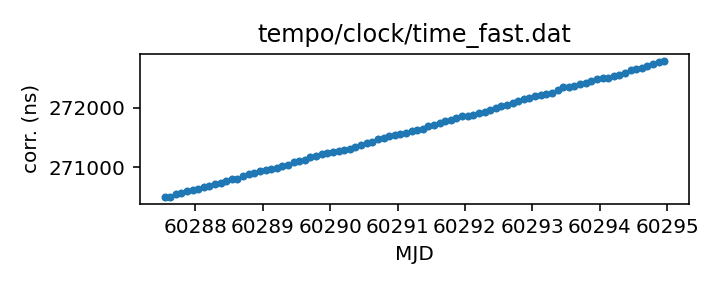
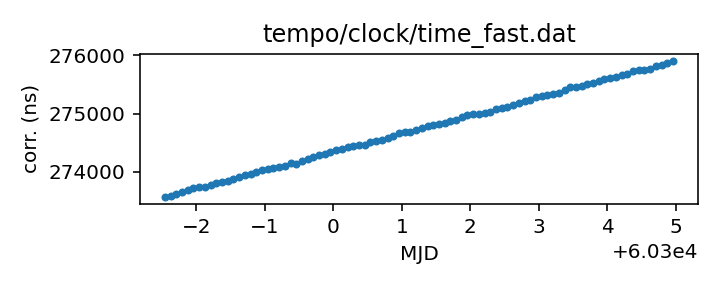
Routine gh-pages update from Github action Thu Dec 28 20:30:00 UTC 2023

diff --git a/status.md b/status.md
@@ -13,17 +13,17 @@ name of each clock file links to a page with more details.
 
 | Name | File | Corrections start | Corrections end | Last check date | Last check result 
 |:--- |:--- | --- | --- | --- |:--- 
-| [GPS to UTC](T2runtime/clock/gps2utc.clk.html) | `T2runtime/clock/gps2utc.clk` | 1993-01-01 MJD 48988.0 | 2023-11-26 MJD 60274.0 | 2023-12-27 | Unchanged 
-| [GPS to UTC (Combined Clock)](T2runtime/clock/gps2utc_cc.clk.html) | `T2runtime/clock/gps2utc_cc.clk` | 1993-01-01 MJD 48988.0 | 2023-11-26 MJD 60274.0 | 2023-12-27 | Unchanged 
-| [GPS to UTC (Corrected)](T2runtime/clock/gps2utc_c0p.clk.html) | `T2runtime/clock/gps2utc_c0p.clk` | 2010-12-29 MJD 55559.0 | 2023-11-26 MJD 60274.0 | 2023-12-27 | Unchanged 
-| [GBT](tempo/clock/time_gbt.dat.html) | `tempo/clock/time_gbt.dat` | 2000-12-31 MJD 51909.5 | 2023-03-20 MJD 60023.5 | 2023-12-27 | **Validation failed** 
+| [GPS to UTC](T2runtime/clock/gps2utc.clk.html) | `T2runtime/clock/gps2utc.clk` | 1993-01-01 MJD 48988.0 | 2023-11-26 MJD 60274.0 | 2023-12-28 | Unchanged 
+| [GPS to UTC (Combined Clock)](T2runtime/clock/gps2utc_cc.clk.html) | `T2runtime/clock/gps2utc_cc.clk` | 1993-01-01 MJD 48988.0 | 2023-11-26 MJD 60274.0 | 2023-12-28 | Unchanged 
+| [GPS to UTC (Corrected)](T2runtime/clock/gps2utc_c0p.clk.html) | `T2runtime/clock/gps2utc_c0p.clk` | 2010-12-29 MJD 55559.0 | 2023-11-26 MJD 60274.0 | 2023-12-28 | Unchanged 
+| [GBT](tempo/clock/time_gbt.dat.html) | `tempo/clock/time_gbt.dat` | 2000-12-31 MJD 51909.5 | 2023-03-20 MJD 60023.5 | 2023-12-28 | **Validation failed** 
 | [GBT (TEMPO2 converted from TEMPO)](T2runtime/clock/gbt2gps.clk.html) | `T2runtime/clock/gbt2gps.clk` | 2000-12-31 MJD 51909.5 | 2023-03-20 MJD 60023.5 | 2023-03-21 | Updated 
-| [Jodrell Bank](T2runtime/clock/jb2gps.clk.html) | `T2runtime/clock/jb2gps.clk` | 2006-10-13 MJD 54021.4 | 2023-12-04 MJD 60282.0 | 2023-12-21 | Unchanged 
-| [Jodrell Bank Roach](T2runtime/clock/jbroach2jb.clk.html) | `T2runtime/clock/jbroach2jb.clk` | 2006-10-13 MJD 54021.4 | 2018-03-20 MJD 58197.6 | 2023-12-21 | Unchanged 
-| [Jodrell Bank DFB](T2runtime/clock/jbdfb2jb.clk.html) | `T2runtime/clock/jbdfb2jb.clk` | 2006-10-13 MJD 54021.4 | 2017-05-11 MJD 57884.0 | 2023-12-21 | Unchanged 
-| [Meerkat (observatory)](T2runtime/clock/mk2utc_observatory.clk.html) | `T2runtime/clock/mk2utc_observatory.clk` | 2019-01-01 MJD 58484.0 | 2023-12-15 MJD 60294.0 | 2023-12-21 | Updated 
-| [Leap seconds](tempo/clock/leap.sec.html) | `tempo/clock/leap.sec` | 1972-07-01 MJD 41499.0 | 2017-01-01 MJD 57754.0 | 2023-12-27 | Unchanged 
-| [UT1 table](tempo/clock/ut1.dat.html) | `tempo/clock/ut1.dat` | 1973-01-02 MJD 41684.0 | 2024-12-28 MJD 60672.0 | 2023-12-27 | Unchanged 
+| [Jodrell Bank](T2runtime/clock/jb2gps.clk.html) | `T2runtime/clock/jb2gps.clk` | 2006-10-13 MJD 54021.4 | 2023-12-04 MJD 60282.0 | 2023-12-28 | Unchanged 
+| [Jodrell Bank Roach](T2runtime/clock/jbroach2jb.clk.html) | `T2runtime/clock/jbroach2jb.clk` | 2006-10-13 MJD 54021.4 | 2018-03-20 MJD 58197.6 | 2023-12-28 | Unchanged 
+| [Jodrell Bank DFB](T2runtime/clock/jbdfb2jb.clk.html) | `T2runtime/clock/jbdfb2jb.clk` | 2006-10-13 MJD 54021.4 | 2017-05-11 MJD 57884.0 | 2023-12-28 | Unchanged 
+| [Meerkat (observatory)](T2runtime/clock/mk2utc_observatory.clk.html) | `T2runtime/clock/mk2utc_observatory.clk` | 2019-01-01 MJD 58484.0 | 2023-12-15 MJD 60294.0 | 2023-12-28 | Unchanged 
+| [Leap seconds](tempo/clock/leap.sec.html) | `tempo/clock/leap.sec` | 1972-07-01 MJD 41499.0 | 2017-01-01 MJD 57754.0 | 2023-12-28 | Unchanged 
+| [UT1 table](tempo/clock/ut1.dat.html) | `tempo/clock/ut1.dat` | 1973-01-02 MJD 41684.0 | 2025-01-04 MJD 60679.0 | 2023-12-28 | Updated 
 
 
 
@@ -65,24 +65,24 @@ name of each clock file links to a page with more details.
 
 | Name | File | Corrections start | Corrections end | Last check date | Last check result 
 |:--- |:--- | --- | --- | --- |:--- 
-| [GPS to UTC (TEMPO2)](T2runtime/clock/gps2utc_tempo2.clk.html) | `T2runtime/clock/gps2utc_tempo2.clk` | 1996-03-27 MJD 50169.0 | 2022-10-27 MJD 59879.0 | 2023-12-21 | Unchanged 
-| [GBT (TEMPO2)](T2runtime/clock/gbt2gps_tempo2.clk.html) | `T2runtime/clock/gbt2gps_tempo2.clk` | 2000-12-31 MJD 51909.5 | 2020-02-25 MJD 58904.5 | 2023-12-21 | Unchanged 
-| [Jodrell Bank (TEMPO)](tempo/clock/time_jb.dat.html) | `tempo/clock/time_jb.dat` | 2006-10-13 MJD 54021.4 | 2019-05-13 MJD 58616.2 | 2023-12-21 | Unchanged 
-| [VLA](tempo/clock/time_vla.dat.html) | `tempo/clock/time_vla.dat` | 1990-10-27 MJD 48191.2 | 2021-03-07 MJD 59280.5 | 2023-12-21 | Unchanged 
-| [VLA (TEMPO2)](T2runtime/clock/vla2gps.clk.html) | `T2runtime/clock/vla2gps.clk` | 2015-02-01 MJD 57054.6 | 2021-03-07 MJD 59280.5 | 2023-12-21 | Unchanged 
-| [VLA to NIST](T2runtime/clock/vla2nist.clk.html) | `T2runtime/clock/vla2nist.clk` | 1990-10-27 MJD 48191.2 | 1993-11-13 MJD 49304.0 | 2023-12-21 | Unchanged 
-| [FAST](tempo/clock/time_fast.dat.html) | `tempo/clock/time_fast.dat` | 2017-07-27 MJD 57961.0 | 2023-12-16 MJD 60295.0 | 2023-12-21 | Updated 
-| [WSRT](T2runtime/clock/wsrt2gps.clk.html) | `T2runtime/clock/wsrt2gps.clk` | 1999-01-01 MJD 51179.5 | 2015-06-29 MJD 57202.1 | 2023-12-21 | Unchanged 
-| [WSRT (TEMPO)](tempo/clock/time_wsrt.dat.html) | `tempo/clock/time_wsrt.dat` | 1987-07-24 MJD 47000.0 | 2007-12-24 MJD 54458.0 | 2023-12-21 | **Validation failed** 
-| [Parkes](T2runtime/clock/pks2gps.clk.html) | `T2runtime/clock/pks2gps.clk` | 1858-11-17 MJD 0.0 | 2023-11-30 MJD 60278.1 | 2023-12-21 | Unchanged 
-| [Parkes (TEMPO)](tempo/clock/time_pks.dat.html) | `tempo/clock/time_pks.dat` | 1979-05-07 MJD 44000.0 | 2011-07-03 MJD 55745.8 | 2023-12-21 | **Validation failed** 
-| [SRT](T2runtime/clock/srt2gps.clk.html) | `T2runtime/clock/srt2gps.clk` | 2013-03-20 MJD 56371.0 | 2019-12-11 MJD 58828.0 | 2023-12-21 | Unchanged 
-| [Effelsberg](T2runtime/clock/eff2gps.clk.html) | `T2runtime/clock/eff2gps.clk` | 1993-11-29 MJD 49320.0 | 2015-06-22 MJD 57195.5 | 2023-12-21 | Unchanged 
-| [Effelsberg Asterix/PSRix](T2runtime/clock/effix2gps.clk.html) | `T2runtime/clock/effix2gps.clk` | 2011-01-01 MJD 55562.5 | 2021-03-21 MJD 59294.5 | 2023-12-21 | Unchanged 
-| [LEAP](T2runtime/clock/leap2effix.clk.html) | `T2runtime/clock/leap2effix.clk` | 2012-10-29 MJD 56230.0 | 2014-03-04 MJD 56720.0 | 2023-12-21 | Unchanged 
-| [NUPPI](tempo/clock/time_nuppi.dat.html) | `tempo/clock/time_nuppi.dat` | 2005-03-07 MJD 53436.0 | 2015-11-08 MJD 57334.6 | 2023-12-21 | Unchanged 
+| [GPS to UTC (TEMPO2)](T2runtime/clock/gps2utc_tempo2.clk.html) | `T2runtime/clock/gps2utc_tempo2.clk` | 1996-03-27 MJD 50169.0 | 2022-10-27 MJD 59879.0 | 2023-12-28 | Unchanged 
+| [GBT (TEMPO2)](T2runtime/clock/gbt2gps_tempo2.clk.html) | `T2runtime/clock/gbt2gps_tempo2.clk` | 2000-12-31 MJD 51909.5 | 2020-02-25 MJD 58904.5 | 2023-12-28 | Unchanged 
+| [Jodrell Bank (TEMPO)](tempo/clock/time_jb.dat.html) | `tempo/clock/time_jb.dat` | 2006-10-13 MJD 54021.4 | 2019-05-13 MJD 58616.2 | 2023-12-28 | Unchanged 
+| [VLA](tempo/clock/time_vla.dat.html) | `tempo/clock/time_vla.dat` | 1990-10-27 MJD 48191.2 | 2021-03-07 MJD 59280.5 | 2023-12-28 | Unchanged 
+| [VLA (TEMPO2)](T2runtime/clock/vla2gps.clk.html) | `T2runtime/clock/vla2gps.clk` | 2015-02-01 MJD 57054.6 | 2021-03-07 MJD 59280.5 | 2023-12-28 | Unchanged 
+| [VLA to NIST](T2runtime/clock/vla2nist.clk.html) | `T2runtime/clock/vla2nist.clk` | 1990-10-27 MJD 48191.2 | 1993-11-13 MJD 49304.0 | 2023-12-28 | Unchanged 
+| [FAST](tempo/clock/time_fast.dat.html) | `tempo/clock/time_fast.dat` | 2017-07-27 MJD 57961.0 | 2023-12-26 MJD 60305.0 | 2023-12-28 | Updated 
+| [WSRT](T2runtime/clock/wsrt2gps.clk.html) | `T2runtime/clock/wsrt2gps.clk` | 1999-01-01 MJD 51179.5 | 2015-06-29 MJD 57202.1 | 2023-12-28 | Unchanged 
+| [WSRT (TEMPO)](tempo/clock/time_wsrt.dat.html) | `tempo/clock/time_wsrt.dat` | 1987-07-24 MJD 47000.0 | 2007-12-24 MJD 54458.0 | 2023-12-28 | **Validation failed** 
+| [Parkes](T2runtime/clock/pks2gps.clk.html) | `T2runtime/clock/pks2gps.clk` | 1858-11-17 MJD 0.0 | 2023-11-30 MJD 60278.1 | 2023-12-28 | Unchanged 
+| [Parkes (TEMPO)](tempo/clock/time_pks.dat.html) | `tempo/clock/time_pks.dat` | 1979-05-07 MJD 44000.0 | 2011-07-03 MJD 55745.8 | 2023-12-28 | **Validation failed** 
+| [SRT](T2runtime/clock/srt2gps.clk.html) | `T2runtime/clock/srt2gps.clk` | 2013-03-20 MJD 56371.0 | 2019-12-11 MJD 58828.0 | 2023-12-28 | Unchanged 
+| [Effelsberg](T2runtime/clock/eff2gps.clk.html) | `T2runtime/clock/eff2gps.clk` | 1993-11-29 MJD 49320.0 | 2015-06-22 MJD 57195.5 | 2023-12-28 | Unchanged 
+| [Effelsberg Asterix/PSRix](T2runtime/clock/effix2gps.clk.html) | `T2runtime/clock/effix2gps.clk` | 2011-01-01 MJD 55562.5 | 2021-03-21 MJD 59294.5 | 2023-12-28 | Unchanged 
+| [LEAP](T2runtime/clock/leap2effix.clk.html) | `T2runtime/clock/leap2effix.clk` | 2012-10-29 MJD 56230.0 | 2014-03-04 MJD 56720.0 | 2023-12-28 | Unchanged 
+| [NUPPI](tempo/clock/time_nuppi.dat.html) | `tempo/clock/time_nuppi.dat` | 2005-03-07 MJD 53436.0 | 2015-11-08 MJD 57334.6 | 2023-12-28 | Unchanged 
 | [Meerkat (TEMPO2)](T2runtime/clock/mk2utc.clk.html) | `T2runtime/clock/mk2utc.clk` | 2019-01-01 MJD 58484.0 | 2023-10-18 MJD 60235.9 | 2023-12-25 | Unchanged 
-| [MOST](T2runtime/clock/mo2gps.clk.html) | `T2runtime/clock/mo2gps.clk` | 2003-12-27 MJD 53000.0 | 2018-09-06 MJD 58367.0 | 2023-12-21 | Unchanged 
+| [MOST](T2runtime/clock/mo2gps.clk.html) | `T2runtime/clock/mo2gps.clk` | 2003-12-27 MJD 53000.0 | 2018-09-06 MJD 58367.0 | 2023-12-28 | Unchanged 
 | [Nancay to obspm](T2runtime/clock/ncyobs2obspm.clk.html) | `T2runtime/clock/ncyobs2obspm.clk` | 1988-05-18 MJD 47299.6 | 2023-10-27 MJD 60244.0 | 2023-12-27 | Unchanged 
 | [obspm](T2runtime/clock/obspm2gps.clk.html) | `T2runtime/clock/obspm2gps.clk` | 2003-12-01 MJD 52974.0 | 2023-10-27 MJD 60244.0 | 2023-12-27 | Unchanged 
 

diff --git a/tempo/clock/time_pks.dat.md b/tempo/clock/time_pks.dat.md
@@ -20,12 +20,11 @@ telescopes in the same file, distinguished only by observatory code.
 | Clock file start | 1979-05-07 MJD 44000.0 |
 | Clock file end | 2011-07-03 MJD 55745.8 |
 | Update interval (days) | 7 |
-| Last update attempt | 2023-12-21 |
+| Last update attempt | 2023-12-28 |
 | Last update result | Validation failed |
 
 Log entries from the last few update attempts:
 ```
-2023-02-23 20:30:38.067 - Validation failed: Unable to read new version of tempo/clock/time_pks.dat: Clock file /tmp/astropy-download-1718-yry0f46l appears to be out of order
 2023-03-02 20:30:48.526 - Validation failed: Unable to read new version of tempo/clock/time_pks.dat: Clock file /tmp/astropy-download-1706-_i5l6zu0 appears to be out of order
 2023-03-09 20:31:05.060 - Validation failed: Unable to read new version of tempo/clock/time_pks.dat: Clock file /tmp/astropy-download-1730-tvhmpzn8 appears to be out of order
 2023-03-16 20:29:09.497 - Validation failed: Unable to read new version of tempo/clock/time_pks.dat: Clock file /tmp/astropy-download-1726-u716fwx7 appears to be out of order
@@ -35,6 +34,7 @@ Log entries from the last few update attempts:
 2023-12-07 20:29:42.484 - Validation failed: Unable to read new version of tempo/clock/time_pks.dat: Clock file /tmp/astropy-download-1928-_p30zgf2 appears to be out of order
 2023-12-14 20:29:39.230 - Validation failed: Unable to read new version of tempo/clock/time_pks.dat: Clock file /tmp/astropy-download-1915-3v8rlovy appears to be out of order
 2023-12-21 20:29:40.474 - Validation failed: Unable to read new version of tempo/clock/time_pks.dat: Clock file /tmp/astropy-download-1821-3k659wi3 appears to be out of order
+2023-12-28 20:29:30.527 - Validation failed: Unable to read new version of tempo/clock/time_pks.dat: Clock file /tmp/astropy-download-1937-p5sqsqze appears to be out of order
 ```
 [Full log](https://raw.githubusercontent.com/ipta/pulsar-clock-corrections/main/log/tempo/clock/time_pks.dat.log)
 

diff --git a/tempo/clock/time_wsrt.dat.md b/tempo/clock/time_wsrt.dat.md
@@ -20,12 +20,11 @@ should be the same information.
 | Clock file start | 1987-07-24 MJD 47000.0 |
 | Clock file end | 2007-12-24 MJD 54458.0 |
 | Update interval (days) | 7 |
-| Last update attempt | 2023-12-21 |
+| Last update attempt | 2023-12-28 |
 | Last update result | Validation failed |
 
 Log entries from the last few update attempts:
 ```
-2023-02-23 20:30:37.681 - Validation failed: Unable to read new version of tempo/clock/time_wsrt.dat: Clock file /tmp/astropy-download-1718-sz5nvrlb appears to be out of order
 2023-03-02 20:30:48.249 - Validation failed: Unable to read new version of tempo/clock/time_wsrt.dat: Clock file /tmp/astropy-download-1706-ywmow6ek appears to be out of order
 2023-03-09 20:31:04.679 - Validation failed: Unable to read new version of tempo/clock/time_wsrt.dat: Clock file /tmp/astropy-download-1730-rplajy6i appears to be out of order
 2023-03-16 20:29:08.574 - Validation failed: Unable to read new version of tempo/clock/time_wsrt.dat: Clock file /tmp/astropy-download-1726-9go2yp7d appears to be out of order
@@ -35,6 +34,7 @@ Log entries from the last few update attempts:
 2023-12-07 20:29:37.655 - Validation failed: Unable to read new version of tempo/clock/time_wsrt.dat: Clock file /tmp/astropy-download-1928-e5omy2ev appears to be out of order
 2023-12-14 20:29:33.906 - Validation failed: Unable to read new version of tempo/clock/time_wsrt.dat: Clock file /tmp/astropy-download-1915-y4akqfn9 appears to be out of order
 2023-12-21 20:29:34.916 - Validation failed: Unable to read new version of tempo/clock/time_wsrt.dat: Clock file /tmp/astropy-download-1821-u_7ghfeo appears to be out of order
+2023-12-28 20:29:25.846 - Validation failed: Unable to read new version of tempo/clock/time_wsrt.dat: Clock file /tmp/astropy-download-1937-w51qchpk appears to be out of order
 ```
 [Full log](https://raw.githubusercontent.com/ipta/pulsar-clock-corrections/main/log/tempo/clock/time_wsrt.dat.log)
 

diff --git a/tempo/clock/time_gbt.dat.md b/tempo/clock/time_gbt.dat.md
@@ -20,12 +20,11 @@ If questions arise, contact Ryan S. Lynch <rlynch@nrao.edu>.
 | Clock file start | 2000-12-31 MJD 51909.5 |
 | Clock file end | 2023-03-20 MJD 60023.5 |
 | Update interval (days) | 1 |
-| Last update attempt | 2023-12-27 |
+| Last update attempt | 2023-12-28 |
 | Last update result | Validation failed |
 
 Log entries from the last few update attempts:
 ```
-2023-12-18 20:29:37.499 - Validation failed: New version of tempo/clock/time_gbt.dat clock corrections differ from old version where they overlap in 11 places
 2023-12-19 20:29:21.780 - Validation failed: New version of tempo/clock/time_gbt.dat clock corrections differ from old version where they overlap in 11 places
 2023-12-20 20:29:45.177 - Validation failed: New version of tempo/clock/time_gbt.dat clock corrections differ from old version where they overlap in 11 places
 2023-12-21 20:29:31.189 - Validation failed: New version of tempo/clock/time_gbt.dat clock corrections differ from old version where they overlap in 11 places
@@ -35,6 +34,7 @@ Log entries from the last few update attempts:
 2023-12-25 20:29:51.581 - Validation failed: New version of tempo/clock/time_gbt.dat clock corrections differ from old version where they overlap in 11 places
 2023-12-26 20:29:23.972 - Validation failed: New version of tempo/clock/time_gbt.dat clock corrections differ from old version where they overlap in 11 places
 2023-12-27 20:29:34.530 - Validation failed: New version of tempo/clock/time_gbt.dat clock corrections differ from old version where they overlap in 11 places
+2023-12-28 20:29:19.328 - Validation failed: New version of tempo/clock/time_gbt.dat clock corrections differ from old version where they overlap in 11 places
 ```
 [Full log](https://raw.githubusercontent.com/ipta/pulsar-clock-corrections/main/log/tempo/clock/time_gbt.dat.log)
 

diff --git a/tempo/clock/time_fast.dat.md b/tempo/clock/time_fast.dat.md
@@ -14,14 +14,13 @@ This file is pulled from the FAST_ClockFile repository.
 | Format | tempo |
 | Bogus last correction | False |
 | Clock file start | 2017-07-27 MJD 57961.0 |
-| Clock file end | 2023-12-16 MJD 60295.0 |
+| Clock file end | 2023-12-26 MJD 60305.0 |
 | Update interval (days) | 7 |
-| Last update attempt | 2023-12-21 |
+| Last update attempt | 2023-12-28 |
 | Last update result | Updated |
 
 Log entries from the last few update attempts:
 ```
-2023-02-23 20:30:36.971 - Failed to download: HTTP Error 404: Not Found
 2023-03-02 20:30:47.511 - Failed to download: HTTP Error 404: Not Found
 2023-03-09 20:31:04.083 - Failed to download: HTTP Error 404: Not Found
 2023-03-16 20:29:07.910 - Failed to download: HTTP Error 404: Not Found
@@ -31,6 +30,7 @@ Log entries from the last few update attempts:
 2023-12-07 20:29:37.182 - Updated
 2023-12-14 20:29:33.419 - Updated
 2023-12-21 20:29:34.482 - Updated
+2023-12-28 20:29:25.400 - Updated
 ```
 [Full log](https://raw.githubusercontent.com/ipta/pulsar-clock-corrections/main/log/tempo/clock/time_fast.dat.log)
 

diff --git a/tempo/clock/ut1.dat.md b/tempo/clock/ut1.dat.md
@@ -28,14 +28,13 @@ If there are any questions, contact Anne Archibald
 | File | `tempo/clock/ut1.dat` |
 | Authority | observatory |
 | File start | 1973-01-02 MJD 41684.0 |
-| File end | 2024-12-28 MJD 60672.0 |
+| File end | 2025-01-04 MJD 60679.0 |
 | Update interval (days) | 0 |
-| Last update attempt | 2023-12-27 |
-| Last update result | Unchanged |
+| Last update attempt | 2023-12-28 |
+| Last update result | Updated |
 
 Log entries from the last few update attempts:
 ```
-2023-12-18 20:29:49.779 - Unchanged
 2023-12-19 20:29:30.137 - Unchanged
 2023-12-20 20:29:54.606 - Unchanged
 2023-12-21 20:30:05.103 - Updated
@@ -45,5 +44,6 @@ Log entries from the last few update attempts:
 2023-12-25 20:30:04.655 - Updated
 2023-12-26 20:29:31.868 - Unchanged
 2023-12-27 20:29:47.290 - Unchanged
+2023-12-28 20:29:42.963 - Updated
 ```
 [Full log](https://raw.githubusercontent.com/ipta/pulsar-clock-corrections/main/log/tempo/clock/ut1.dat.log)

diff --git a/tempo/clock/time_vla.dat.md b/tempo/clock/time_vla.dat.md
@@ -17,12 +17,11 @@ up-to-date.
 | Clock file start | 1990-10-27 MJD 48191.2 |
 | Clock file end | 2021-03-07 MJD 59280.5 |
 | Update interval (days) | 7 |
-| Last update attempt | 2023-12-21 |
+| Last update attempt | 2023-12-28 |
 | Last update result | Unchanged |
 
 Log entries from the last few update attempts:
 ```
-2023-02-23 20:30:36.844 - Failed to download: HTTP Error 404: Not Found
 2023-03-02 20:30:47.319 - Failed to download: HTTP Error 404: Not Found
 2023-03-09 20:31:03.981 - Failed to download: HTTP Error 404: Not Found
 2023-03-16 20:29:07.737 - Failed to download: HTTP Error 404: Not Found
@@ -32,6 +31,7 @@ Log entries from the last few update attempts:
 2023-12-07 20:29:36.501 - Unchanged
 2023-12-14 20:29:32.698 - Unchanged
 2023-12-21 20:29:33.816 - Unchanged
+2023-12-28 20:29:21.582 - Unchanged
 ```
 [Full log](https://raw.githubusercontent.com/ipta/pulsar-clock-corrections/main/log/tempo/clock/time_vla.dat.log)
 

diff --git a/T2runtime/clock/mk2utc_observatory.clk.md b/T2runtime/clock/mk2utc_observatory.clk.md
@@ -21,12 +21,11 @@ If questions arise, contact Ryan Shannon <rshannon@swin.edu.au>
 | Clock file start | 2019-01-01 MJD 58484.0 |
 | Clock file end | 2023-12-15 MJD 60294.0 |
 | Update interval (days) | 7 |
-| Last update attempt | 2023-12-21 |
-| Last update result | Updated |
+| Last update attempt | 2023-12-28 |
+| Last update result | Unchanged |
 
 Log entries from the last few update attempts:
 ```
-2023-02-27 20:30:57.304 - Unchanged
 2023-03-06 20:31:14.944 - Updated
 2023-03-13 20:28:50.346 - Unchanged
 2023-03-20 20:27:20.432 - Unchanged
@@ -36,6 +35,7 @@ Log entries from the last few update attempts:
 2023-12-07 20:29:47.404 - Updated
 2023-12-14 20:29:43.300 - Unchanged
 2023-12-21 20:29:56.175 - Updated
+2023-12-28 20:29:34.840 - Unchanged
 ```
 [Full log](https://raw.githubusercontent.com/ipta/pulsar-clock-corrections/main/log/T2runtime/clock/mk2utc_observatory.clk.log)
 

diff --git a/T2runtime/clock/gps2utc_c0p.clk.md b/T2runtime/clock/gps2utc_c0p.clk.md
@@ -30,12 +30,11 @@ about the BIPM's published corrections, contact <tai@bipm.org>.
 | Clock file start | 2010-12-29 MJD 55559.0 |
 | Clock file end | 2023-11-26 MJD 60274.0 |
 | Update interval (days) | 1 |
-| Last update attempt | 2023-12-27 |
+| Last update attempt | 2023-12-28 |
 | Last update result | Unchanged |
 
 Log entries from the last few update attempts:
 ```
-2023-12-18 20:29:36.932 - Unchanged
 2023-12-19 20:29:21.233 - Unchanged
 2023-12-20 20:29:44.643 - Unchanged
 2023-12-21 20:29:30.294 - Unchanged
@@ -45,6 +44,7 @@ Log entries from the last few update attempts:
 2023-12-25 20:29:50.578 - Unchanged
 2023-12-26 20:29:23.470 - Unchanged
 2023-12-27 20:29:33.806 - Unchanged
+2023-12-28 20:29:18.840 - Unchanged
 ```
 [Full log](https://raw.githubusercontent.com/ipta/pulsar-clock-corrections/main/log/T2runtime/clock/gps2utc_c0p.clk.log)
 

diff --git a/T2runtime/clock/gps2utc_cc.clk.md b/T2runtime/clock/gps2utc_cc.clk.md
@@ -29,12 +29,11 @@ about the BIPM's published corrections, contact <tai@bipm.org>.
 | Clock file start | 1993-01-01 MJD 48988.0 |
 | Clock file end | 2023-11-26 MJD 60274.0 |
 | Update interval (days) | 1 |
-| Last update attempt | 2023-12-27 |
+| Last update attempt | 2023-12-28 |
 | Last update result | Unchanged |
 
 Log entries from the last few update attempts:
 ```
-2023-12-18 20:29:36.923 - Unchanged
 2023-12-19 20:29:21.224 - Unchanged
 2023-12-20 20:29:44.634 - Unchanged
 2023-12-21 20:29:30.285 - Unchanged
@@ -44,6 +43,7 @@ Log entries from the last few update attempts:
 2023-12-25 20:29:50.569 - Unchanged
 2023-12-26 20:29:23.461 - Unchanged
 2023-12-27 20:29:33.797 - Unchanged
+2023-12-28 20:29:18.832 - Unchanged
 ```
 [Full log](https://raw.githubusercontent.com/ipta/pulsar-clock-corrections/main/log/T2runtime/clock/gps2utc_cc.clk.log)
 

diff --git a/T2runtime/clock/gps2utc.clk.md b/T2runtime/clock/gps2utc.clk.md
@@ -32,12 +32,11 @@ about the BIPM's published corrections, contact <tai@bipm.org>.
 | Clock file start | 1993-01-01 MJD 48988.0 |
 | Clock file end | 2023-11-26 MJD 60274.0 |
 | Update interval (days) | 1 |
-| Last update attempt | 2023-12-27 |
+| Last update attempt | 2023-12-28 |
 | Last update result | Unchanged |
 
 Log entries from the last few update attempts:
 ```
-2023-12-18 20:29:36.895 - Unchanged
 2023-12-19 20:29:21.199 - Unchanged
 2023-12-20 20:29:44.608 - Unchanged
 2023-12-21 20:29:30.259 - Unchanged
@@ -47,6 +46,7 @@ Log entries from the last few update attempts:
 2023-12-25 20:29:50.543 - Unchanged
 2023-12-26 20:29:23.435 - Unchanged
 2023-12-27 20:29:33.770 - Unchanged
+2023-12-28 20:29:18.807 - Unchanged
 ```
 [Full log](https://raw.githubusercontent.com/ipta/pulsar-clock-corrections/main/log/T2runtime/clock/gps2utc.clk.log)
 

diff --git a/T2runtime/clock/leap2effix.clk.md b/T2runtime/clock/leap2effix.clk.md
@@ -23,12 +23,11 @@ thus here) can be expected to be somewhat up to date.
 | Clock file start | 2012-10-29 MJD 56230.0 |
 | Clock file end | 2014-03-04 MJD 56720.0 |
 | Update interval (days) | 7 |
-| Last update attempt | 2023-12-21 |
+| Last update attempt | 2023-12-28 |
 | Last update result | Unchanged |
 
 Log entries from the last few update attempts:
 ```
-2023-02-24 20:30:17.107 - Unchanged
 2023-03-03 20:29:52.576 - Unchanged
 2023-03-10 20:28:33.908 - Unchanged
 2023-03-17 20:28:55.584 - Unchanged
@@ -38,6 +37,7 @@ Log entries from the last few update attempts:
 2023-12-07 20:29:43.230 - Unchanged
 2023-12-14 20:29:40.017 - Unchanged
 2023-12-21 20:29:41.220 - Unchanged
+2023-12-28 20:29:31.168 - Unchanged
 ```
 [Full log](https://raw.githubusercontent.com/ipta/pulsar-clock-corrections/main/log/T2runtime/clock/leap2effix.clk.log)
 
